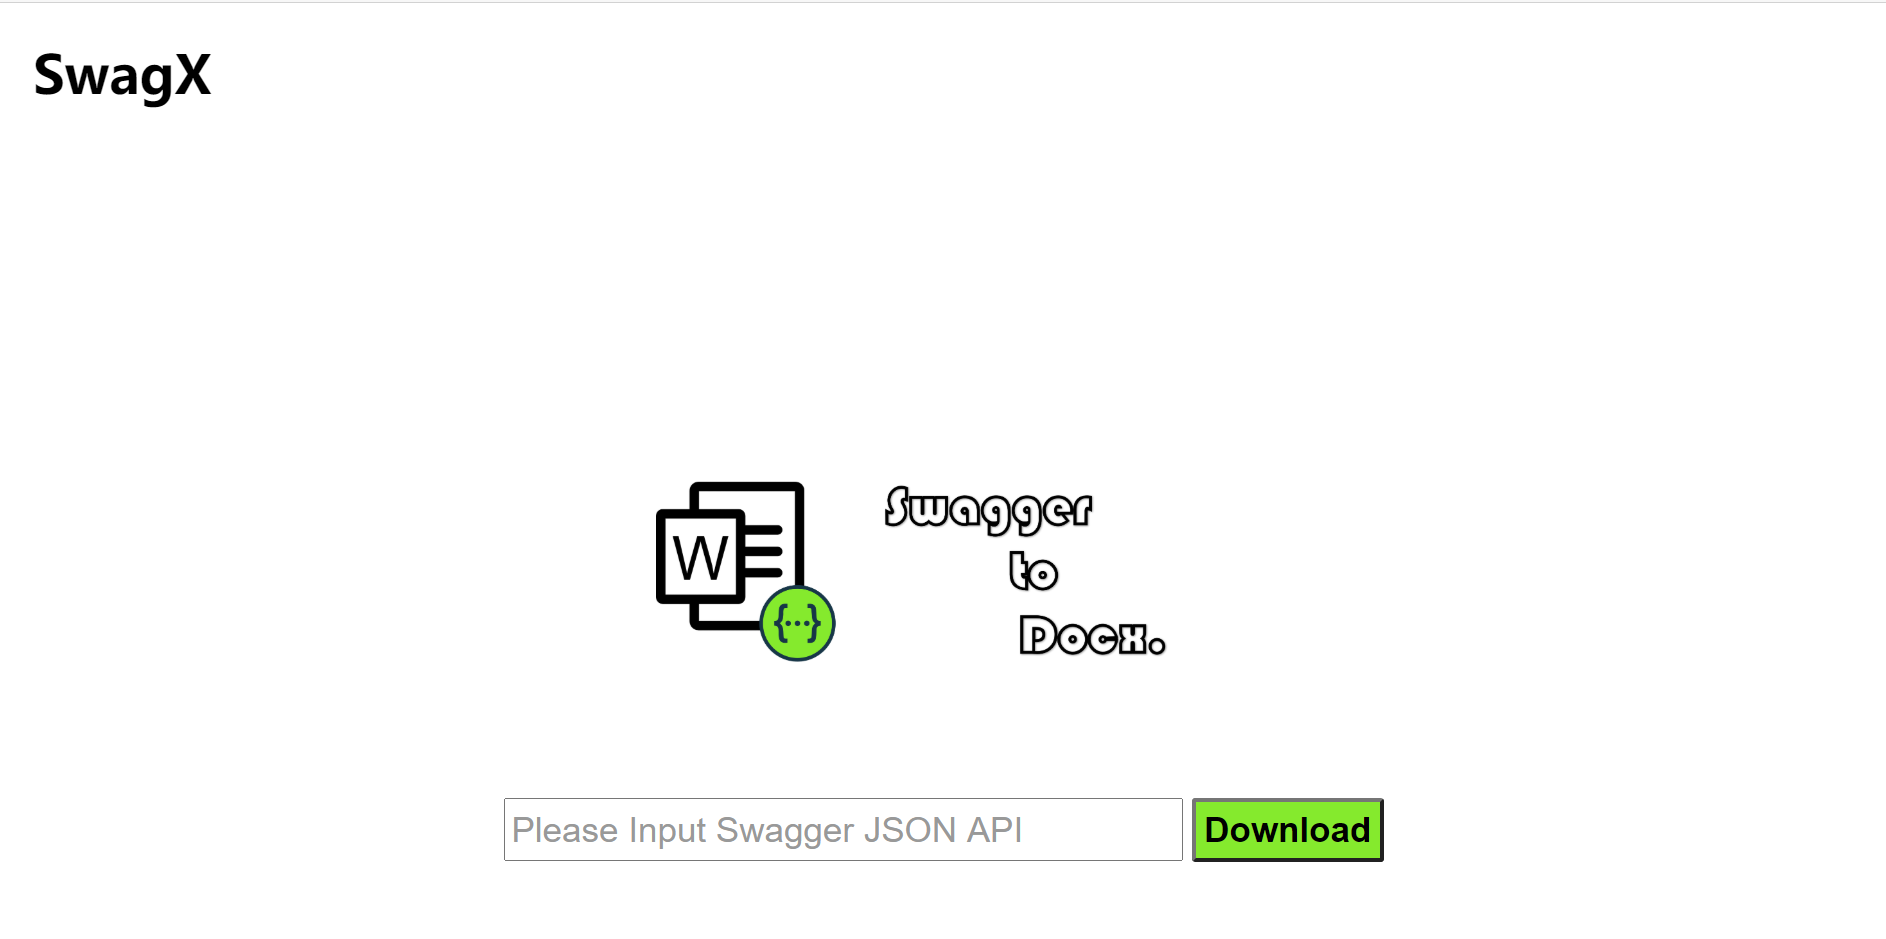
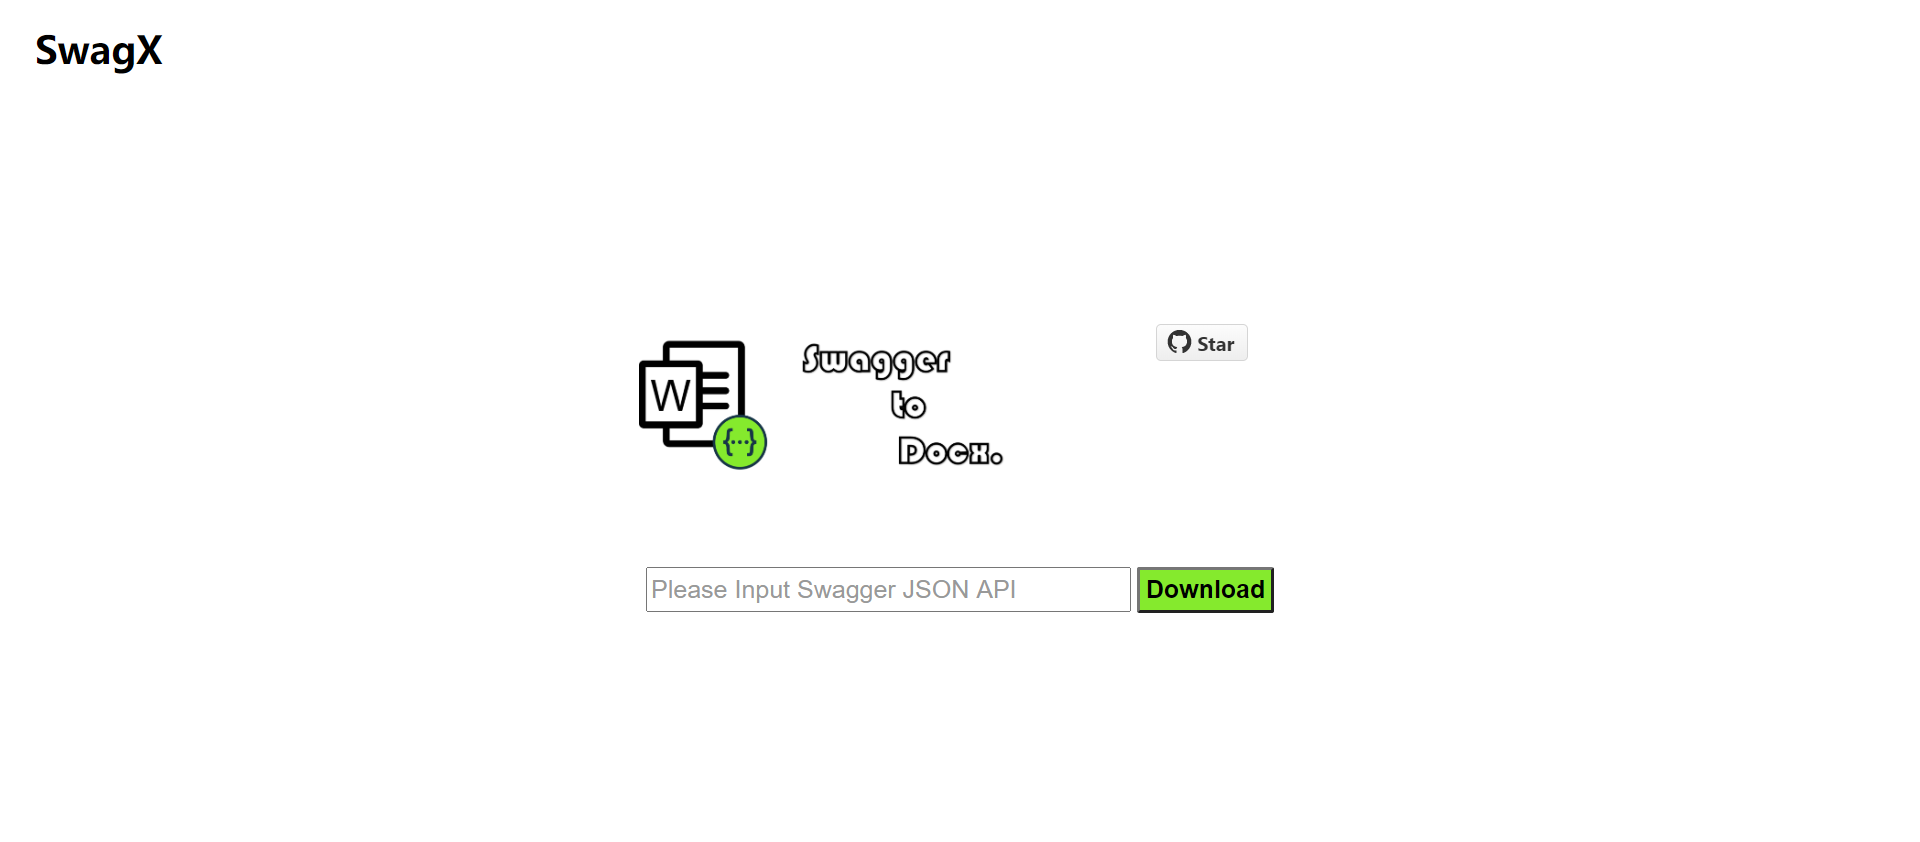
feat: “GitHub”badge

diff --git a/src/main/resources/static/index.html b/src/main/resources/static/index.html
@@ -48,6 +48,11 @@
         <div style="display: inline-block;" align="center">
             <img src="./img/logo.png" height="140px"></img>
         </div>
+        <div style="display:inline-block;vertical-align:top;padding-left: 80px">
+            <iframe
+                    src=" https://ghbtns.com/github-btn.html?user=ClearStudio&repo=swagx&type=star&count=false&size=large"
+                    frameborder="0" scrolling="0" width="100px" height="30px"></iframe>
+        </div>
         <form align="center" style="margin-top: 50px">
             <input name="swaggerApi" id="api" placeholder="Please Input Swagger JSON API">
             <button onclick="download()" type="submit">Download</button>
